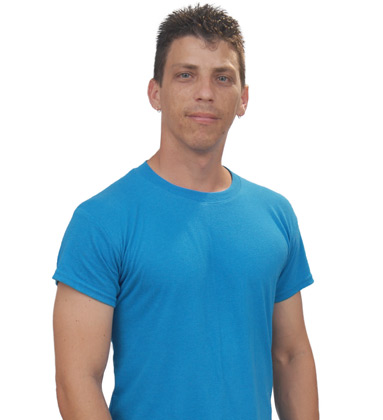
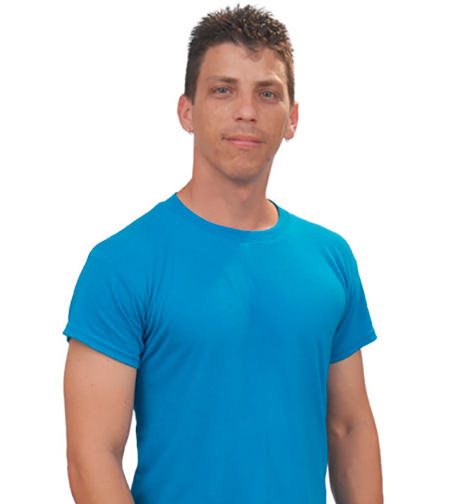
Página autor actualizada

diff --git a/autor/index.html b/autor/index.html
@@ -120,6 +120,27 @@
 
 <p>Como complemento adicional escribí <strong>iPhoneografía paso a paso</strong>, una <a href="/blog/guia-cero-a-heroe-fotografia-movil">guía para ir de cero a héroe en la fotografía móvil</a>.</p>
 
+<div class="progress-bar-container">
+  <div class="progressbar" style="width:100%;">
+    <div class="progressbar-text">Fotografía comercial 100%</div>
+  </div>
+</div>
+<div class="progress-bar-container">
+  <div class="progressbar" style="width:73%;">
+    <div class="progressbar-text">Fotografía peridística 73%</div>
+  </div>
+</div>
+<div class="progress-bar-container">
+  <div class="progressbar w3-blue" style="width:86%;">
+    <div class="progressbar-text">Fotografía de estudio 86%</div>
+  </div>
+</div>
+<div class="progress-bar-container">
+  <div class="progressbar w3-blue" style="width:42%;">
+    <div class="progressbar-text">Fotografía de Bienes Raices 42%</div>
+  </div>
+</div>
+
 <p>La fotografía con el iPhone no es solo lo que me lleva todo mi tiempo. De profeción soy desarrollador web, donde, junto a un equipo de programadores y diseñadores, con el uso de las últimas tecnologías y modernos lenguajes de programación, trabajamos con el objetivo de crear aplicaciones webs a medidad.</p>
 
 <div class="promo-web">

diff --git a/css/page.css b/css/page.css
@@ -21,9 +21,17 @@
     margin-left: auto;
     margin-right: auto;
 }
+
+
+.progress-bar-container{width:55%;height:25px;position:relative;background-color:#ccc;margin-bottom:15px}
+.progressbar{background-color:#1c8bc3;height:100%;position:absolute;line-height:inherit}
+.progressbar-text{color:#fff;padding-left:15px;font-size:16px}
+
+
 @media (max-width:680px){
     .promo-web{width:50%}
 .page-project{width:100%}
+.progress-bar-container{width:100%;}
 .vidcontainer{float:none;clear:both;width:100%;position:relative;padding-bottom:56.25%;padding-top:25px;height:0;}
 .vidcontainer iframe, .vidcontainer object, .vidcontainer embed {position:absolute;top:0;left:0;width:100%;height:100%;}
 }
@@ -37,4 +45,5 @@
 .tienda .fotos{padding:40px 15px 20px;background:#353535;color:#fff}
 .section-align{float:right}
 .fotos p{font-size:24px;line-height:1.2;font-weight:300;text-align:center}
+.page img {width: 100%}
 }
